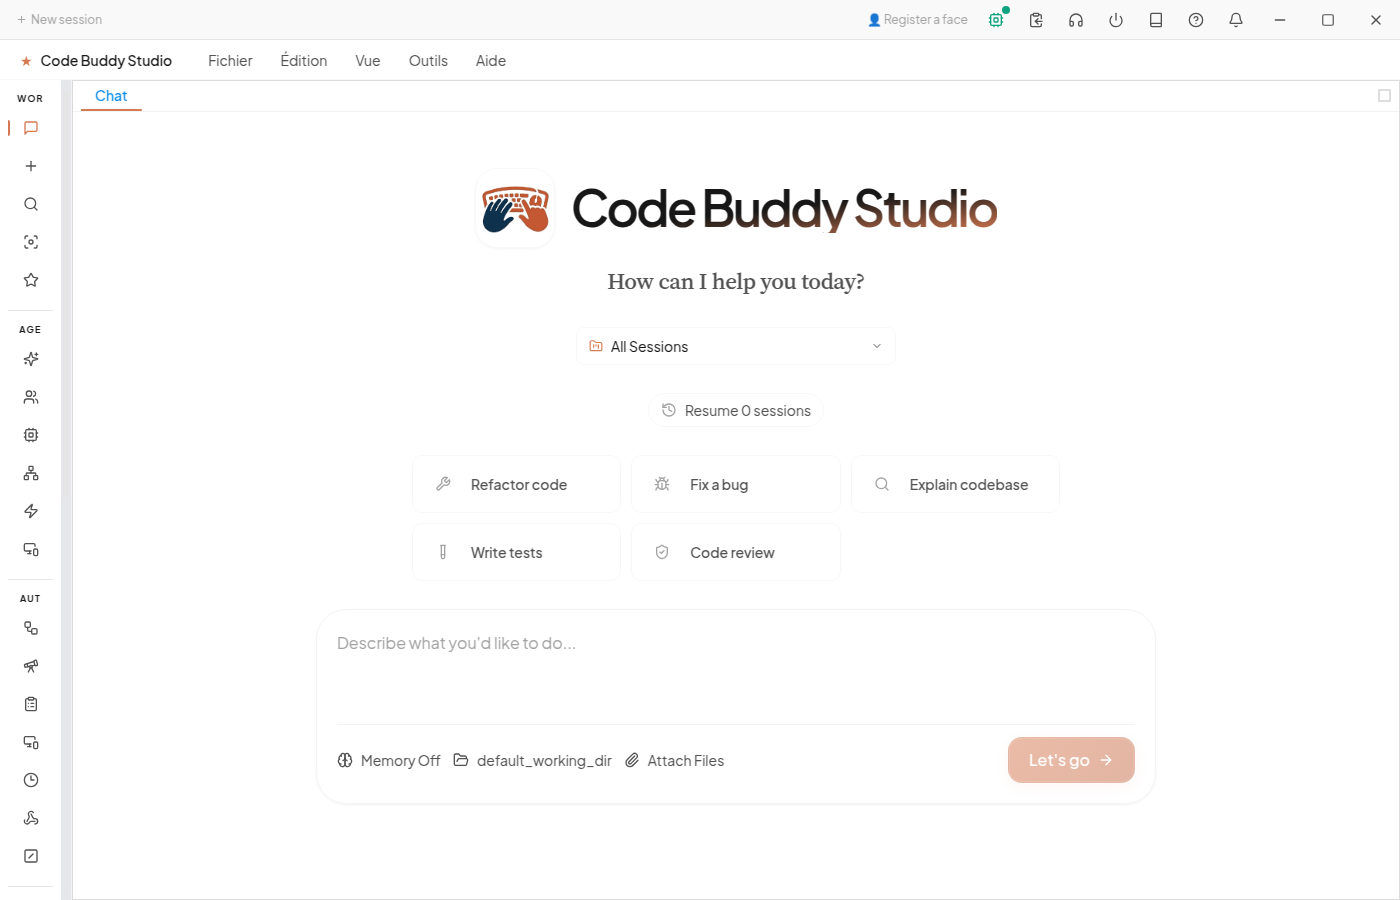
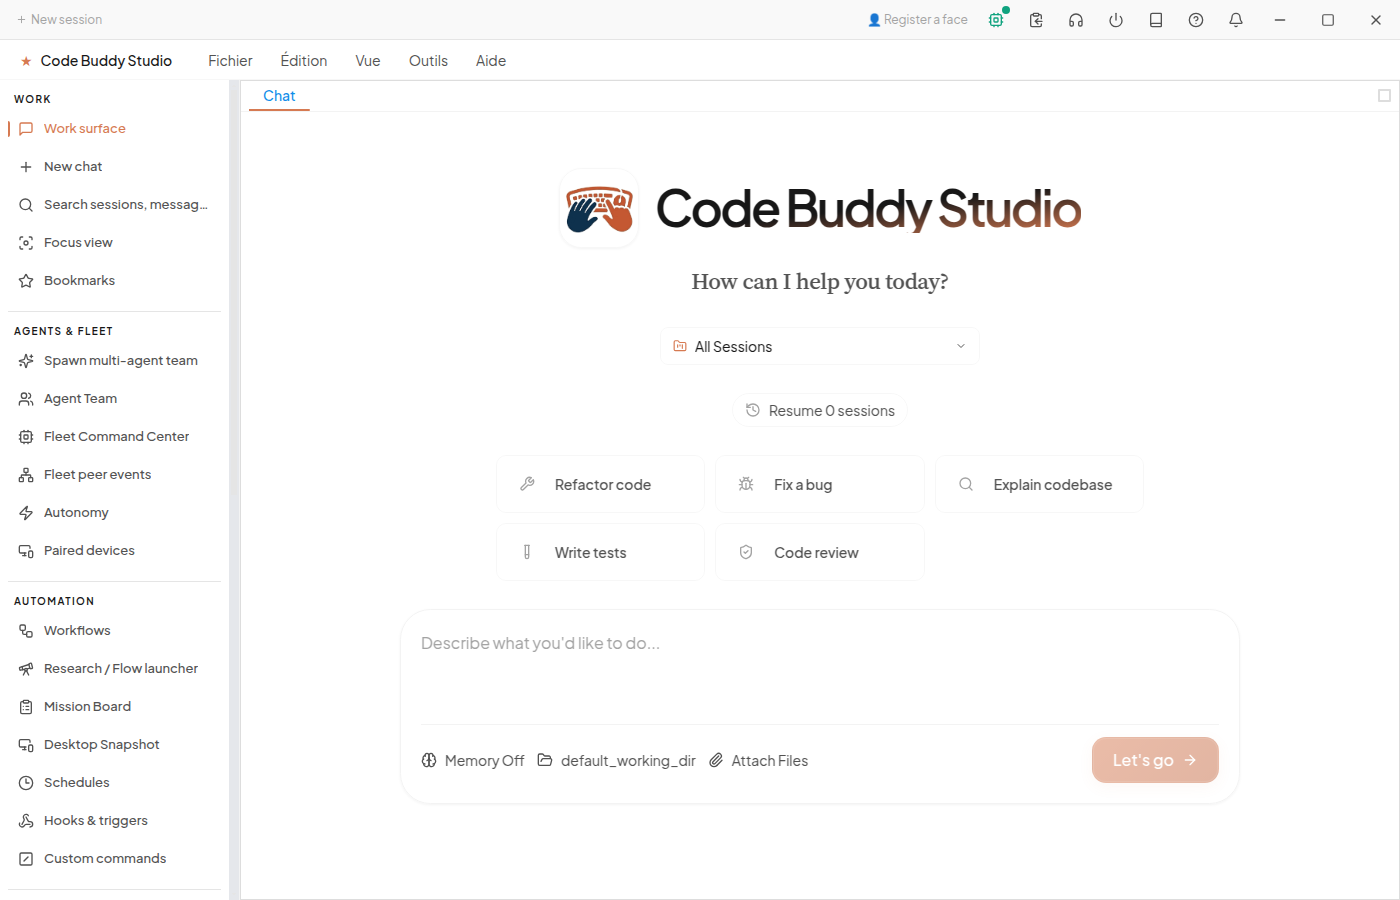
docs: refresh Cowork screenshots for the expanded-by-default left menu
Re-capture the home (now showing the always-expanded sidebar) and a panel-open view
(Autonomy dashboard launched as a tab); update README + Pages site. Drop the old
hover-expand still.

diff --git a/README.md b/README.md
@@ -206,8 +206,8 @@ Cowork is the desktop cockpit for Code Buddy: chat, tools, traces, workflows, se
 
 <table>
   <tr>
-    <td width="50%" align="center"><img src="docs/assets/cowork-welcome.png" alt="Cowork desktop home with quick-action cards and the panel rail" width="430"/><br/><sub>Home — quick-action cards, gradient hero, panel rail</sub></td>
-    <td width="50%" align="center"><img src="docs/assets/cowork-rail.png" alt="The left rail expands on hover to reveal every panel launcher" width="430"/><br/><sub>Left rail — hover to expand; launches every panel (fleet, autonomy, memory…)</sub></td>
+    <td width="50%" align="center"><img src="docs/assets/cowork-welcome.png" alt="Cowork desktop home with the expanded left menu and quick-action cards" width="430"/><br/><sub>Home — expanded menu, quick-action cards, gradient hero</sub></td>
+    <td width="50%" align="center"><img src="docs/assets/cowork-panel.png" alt="A launcher opens its panel as a tab — here the Autonomy dashboard" width="430"/><br/><sub>A launcher opens its panel as a tab — here the Autonomy dashboard (daemon, model ladder, subagents)</sub></td>
   </tr>
   <tr>
     <td width="50%" align="center"><img src="docs/qa/code-buddy-studio/showcase-2026-06-16/03-fleet-autonomy.png" alt="Fleet and autonomy dashboard" width="430"/><br/><sub>Fleet dispatch · tool-permission posture · Hermes toolsets</sub></td>